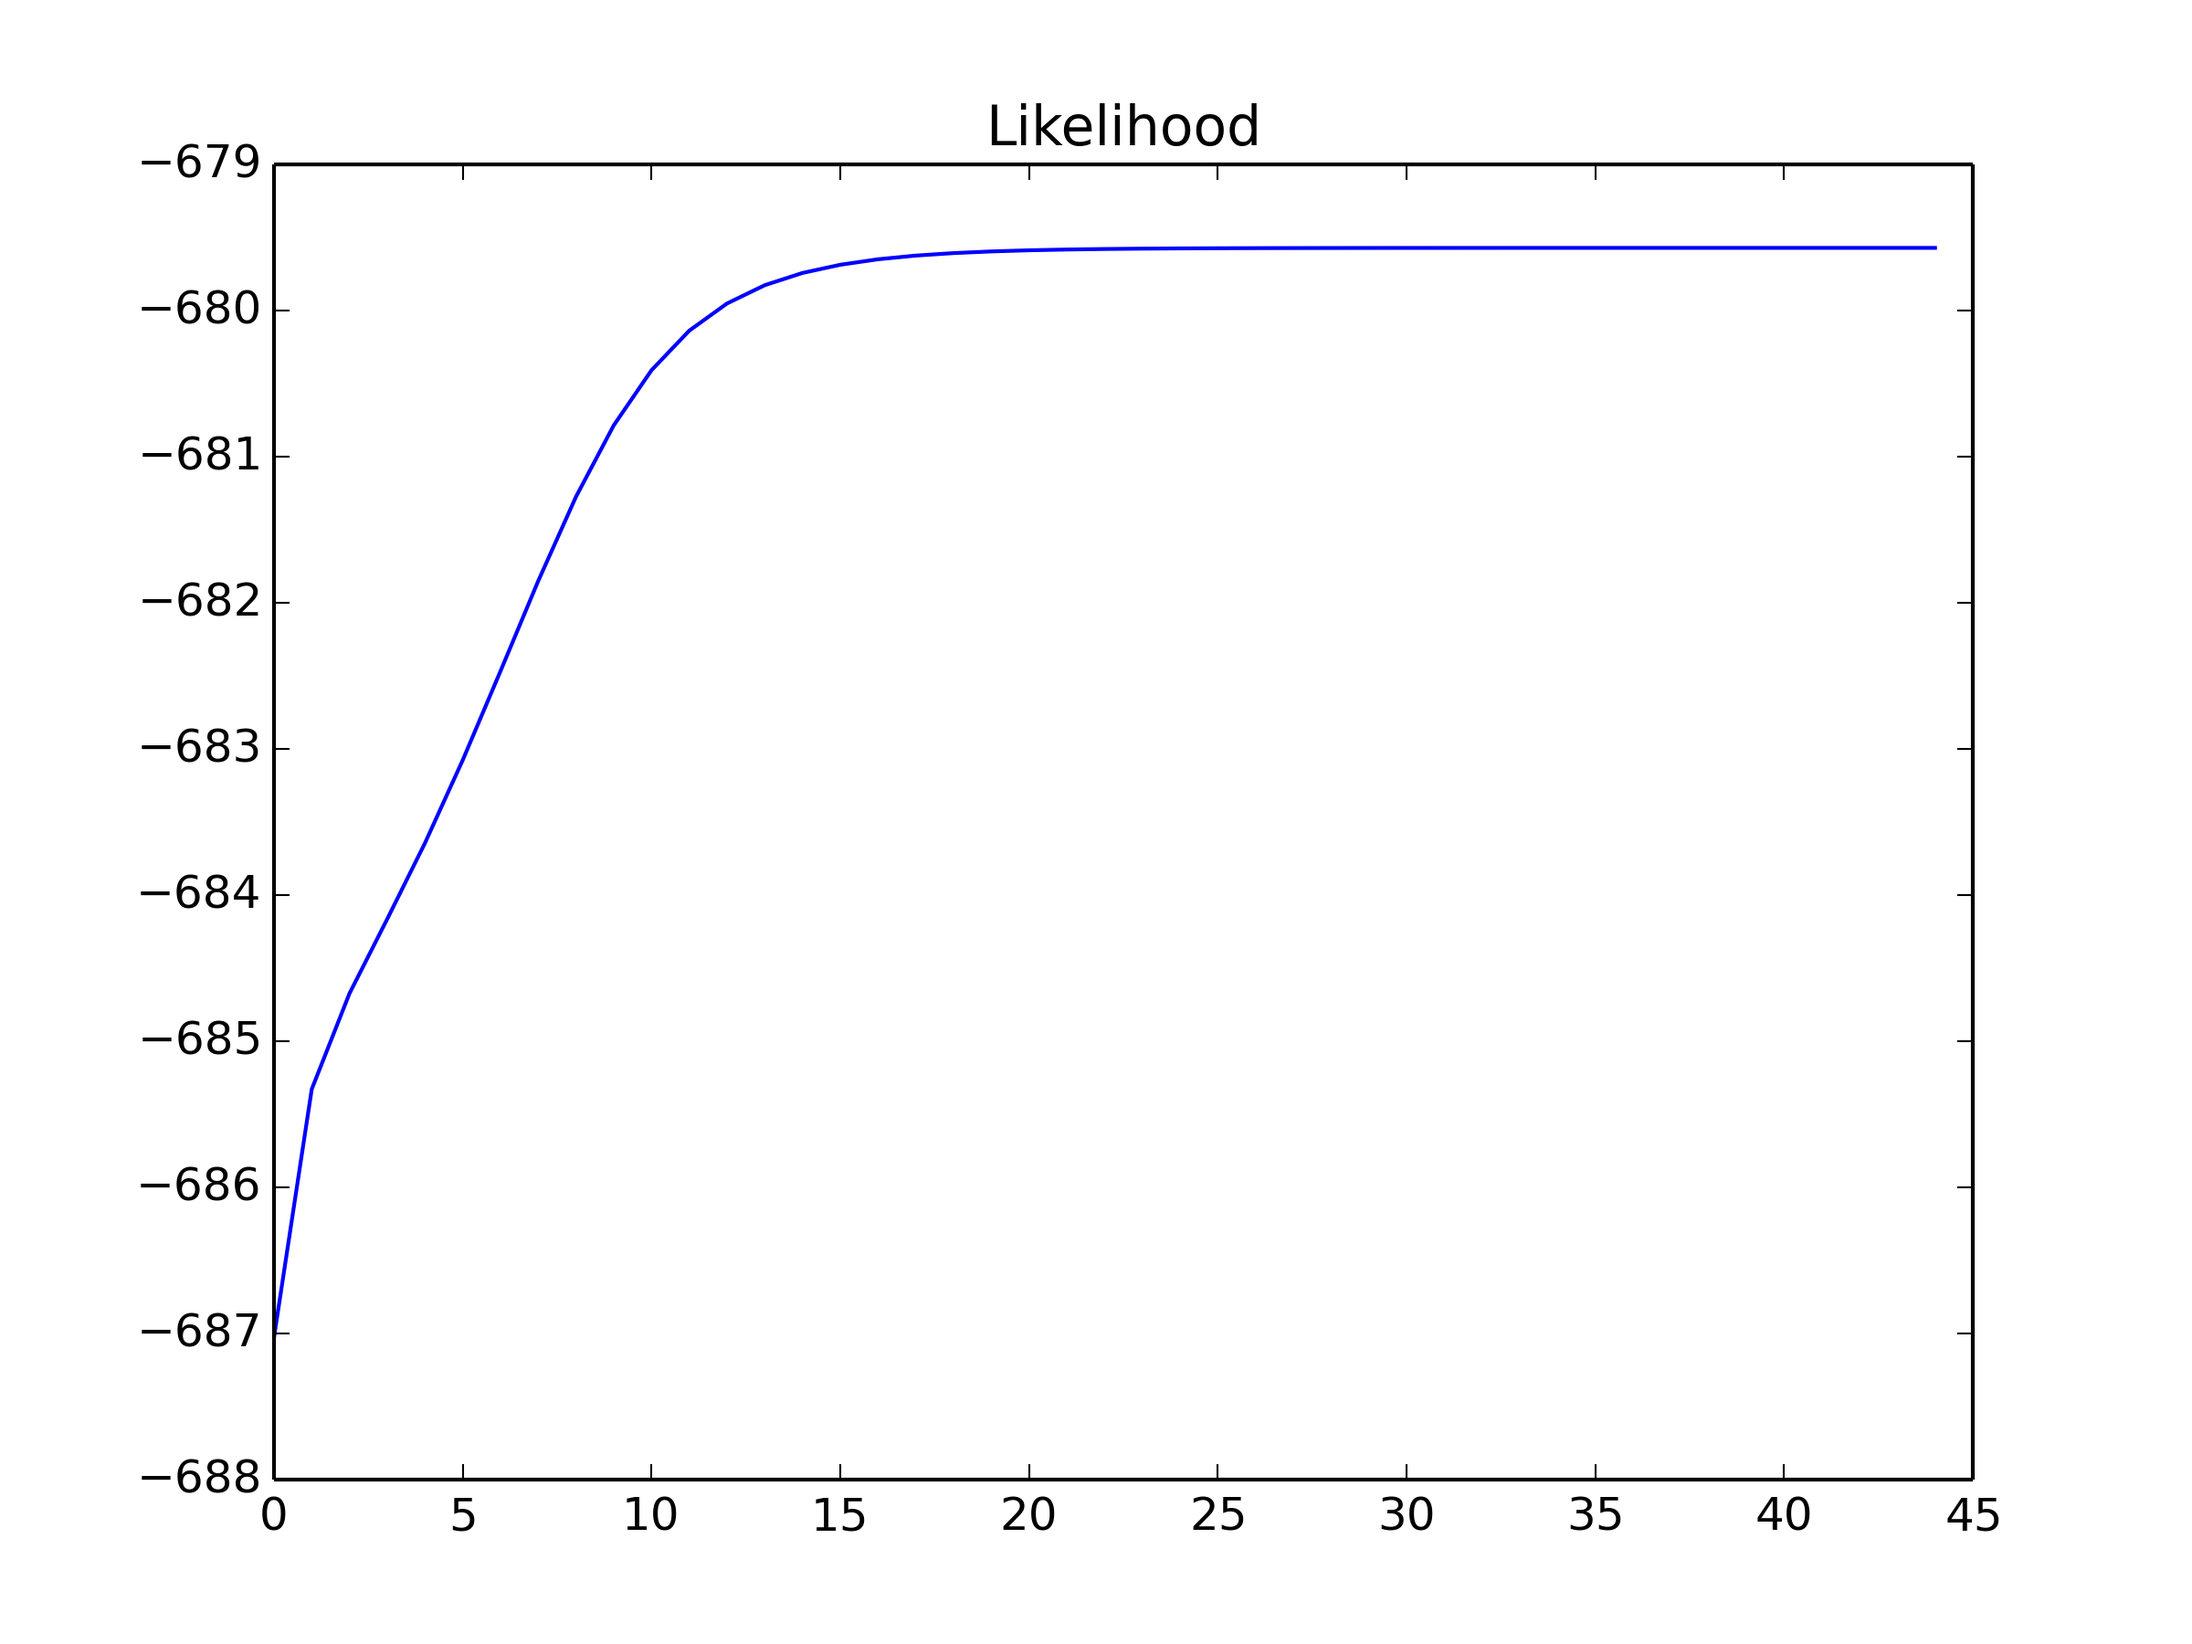
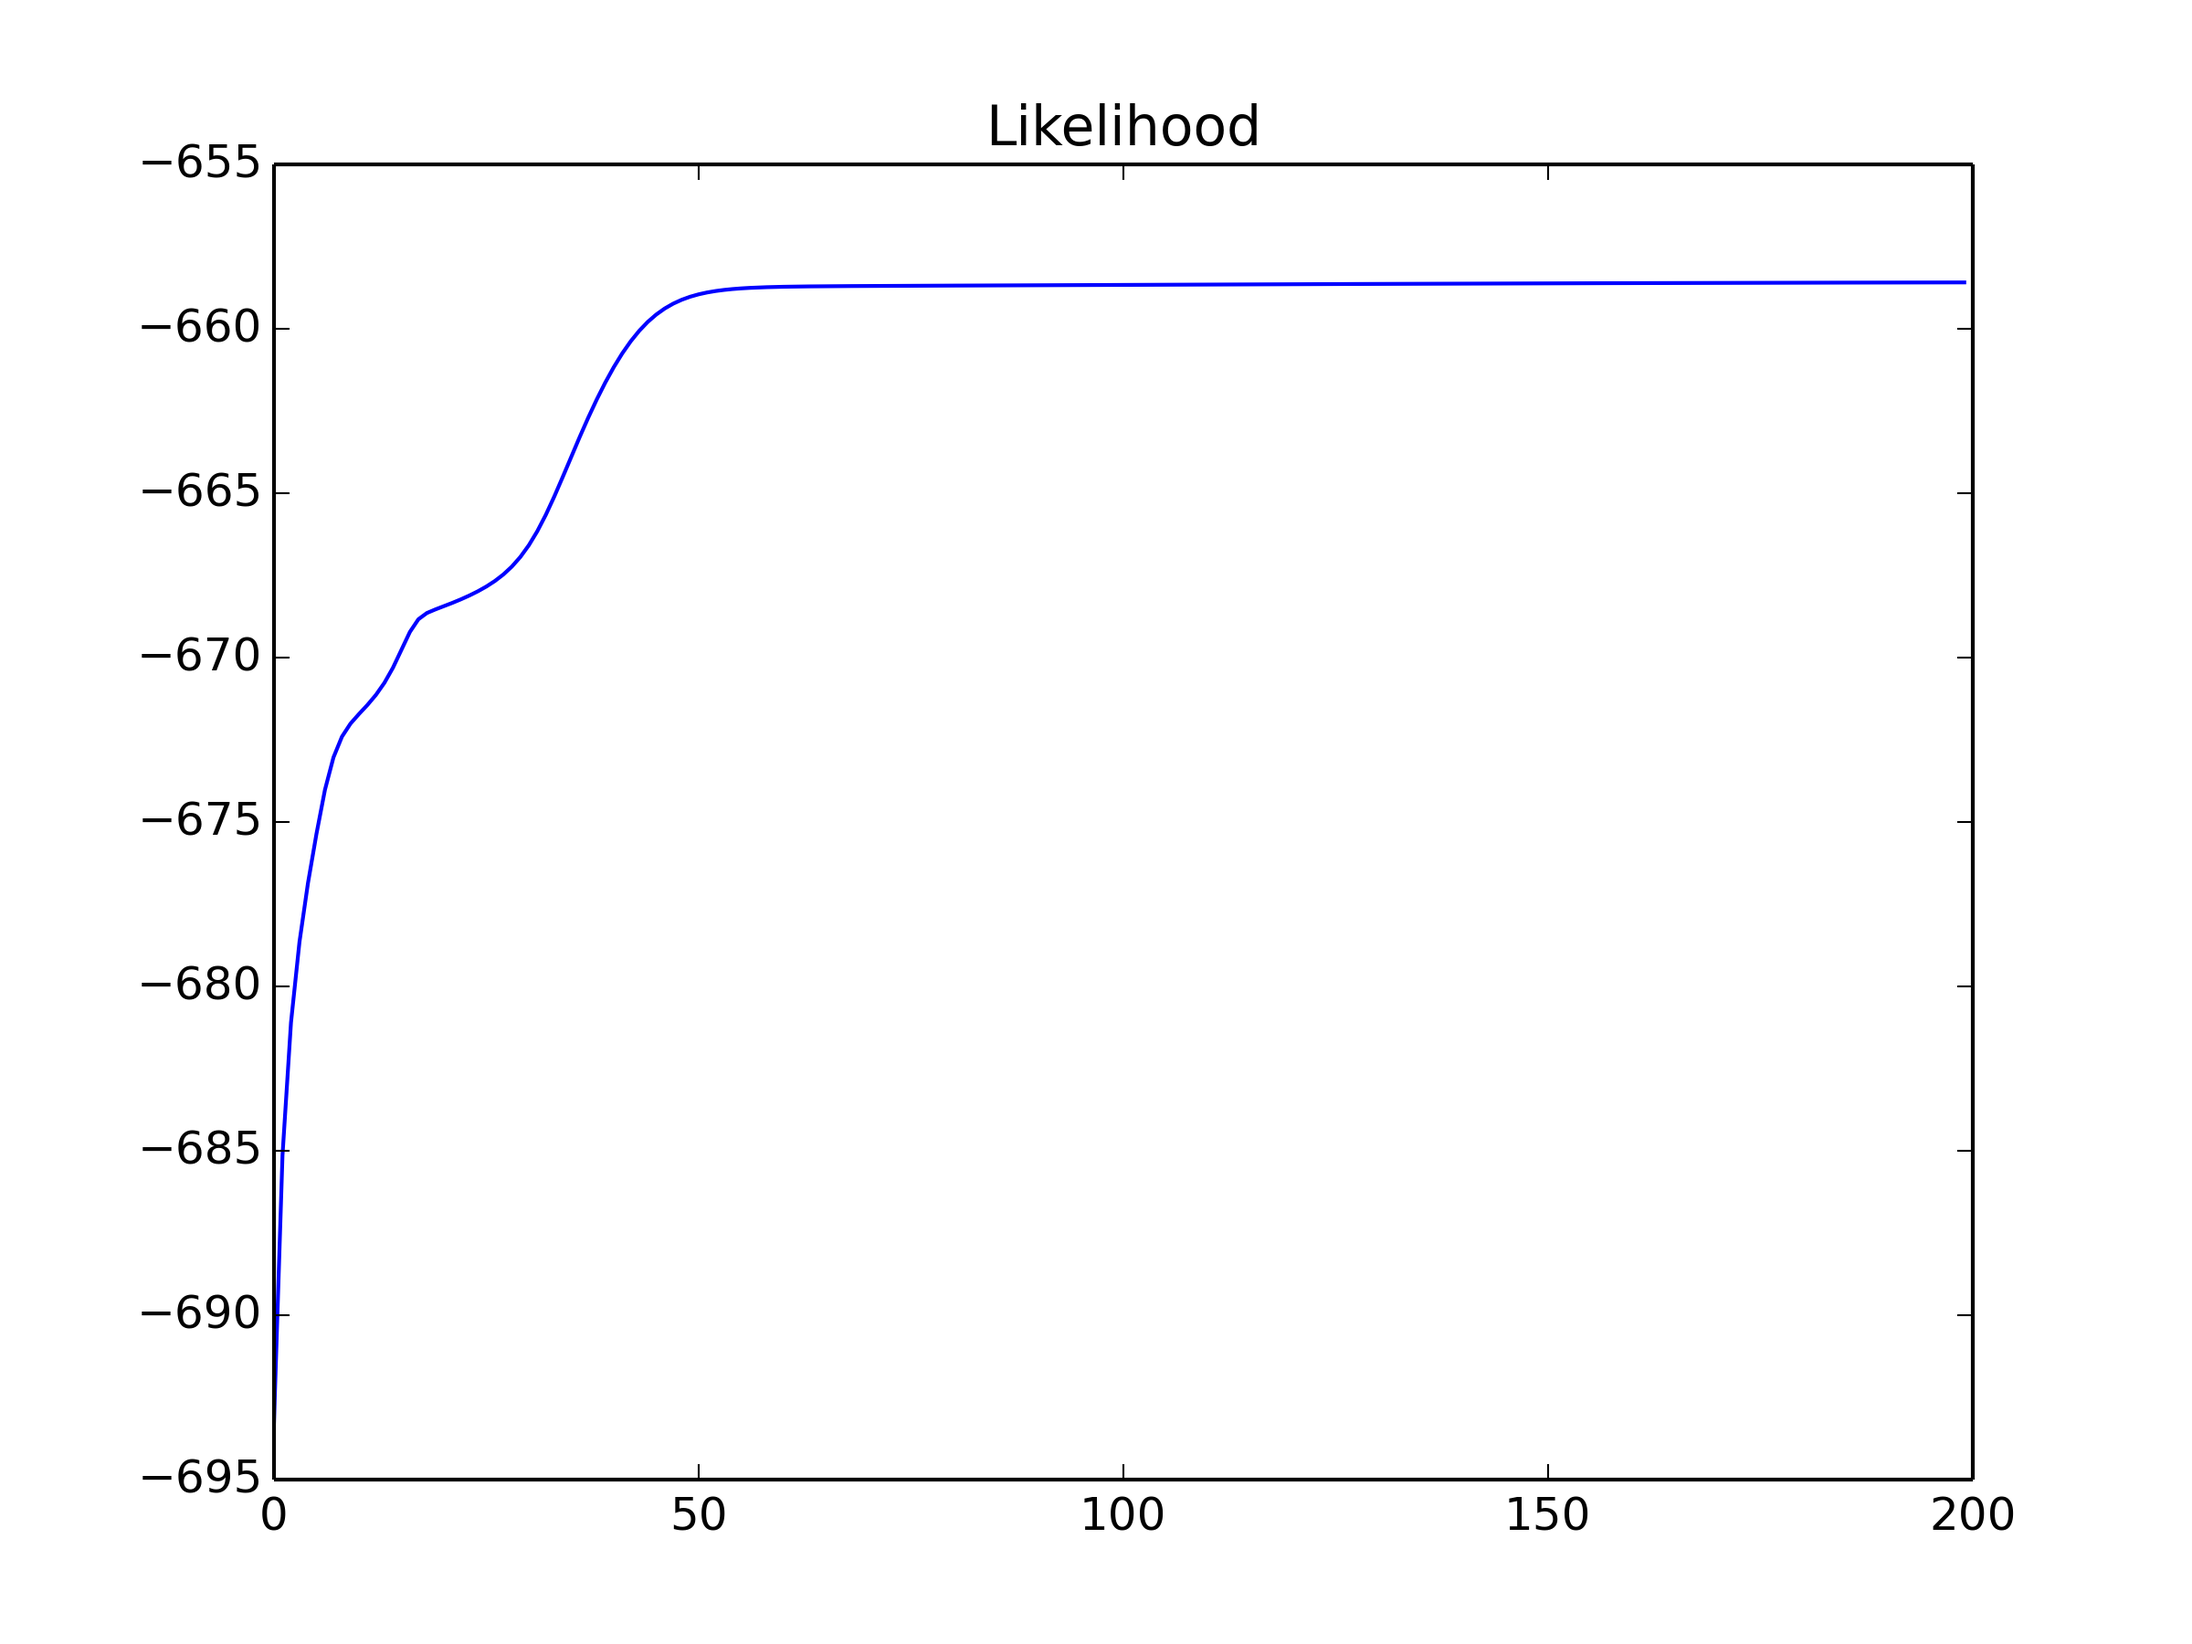
update

diff --git a/solution/mygmm.py b/solution/mygmm.py
@@ -188,7 +188,7 @@ class GMM:
 
 def main():
     X = np.loadtxt(open('../data/data.txt',"rb"),delimiter=" ",skiprows=0)
-    clf = GMM(n_components=2, n_init=1, tol=1e-6, n_iter=200, verbose=True, image=False)
+    clf = GMM(n_components=5, n_init=1, tol=1e-6, n_iter=200, verbose=True, image=True)
     clf.fit(X)
 
 if __name__ == '__main__':
